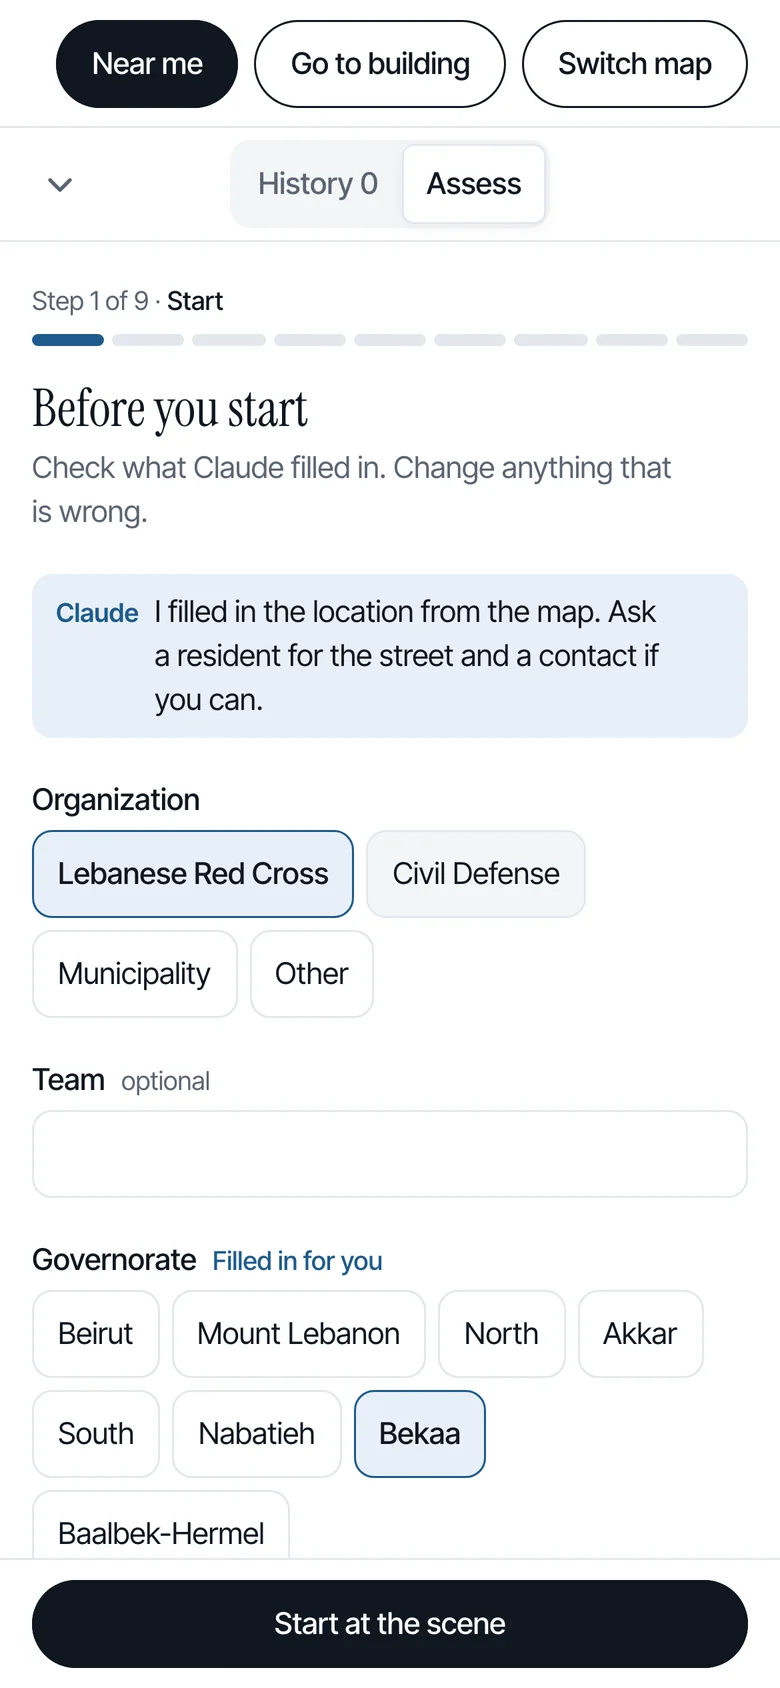
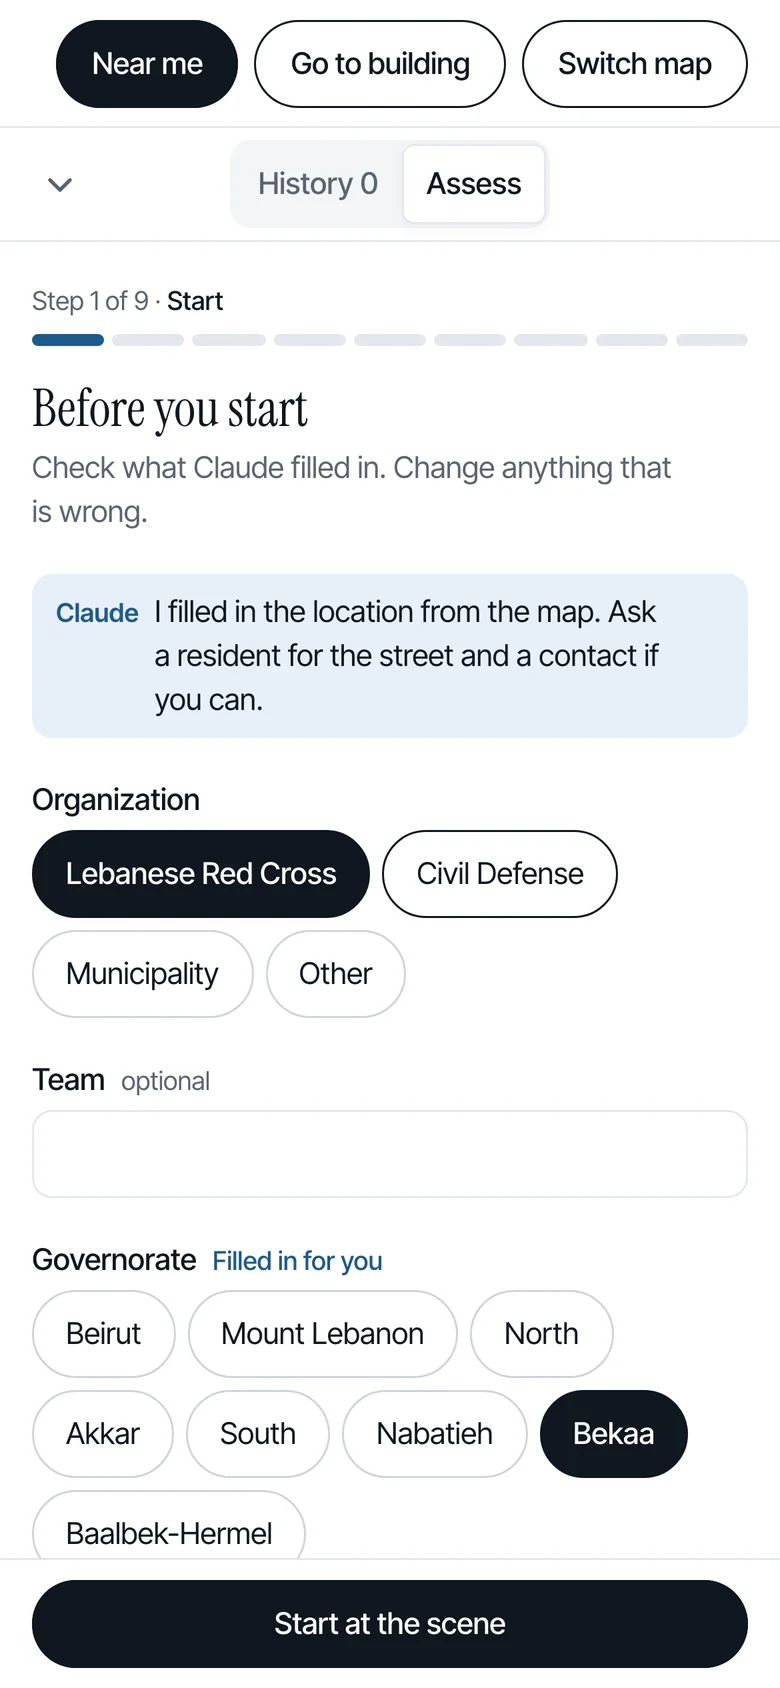
Pill choice tiles in the assessment and report forms; Zahle photo free to use

diff --git a/src/components/emt/assessment/AssessmentFlow.tsx b/src/components/emt/assessment/AssessmentFlow.tsx
@@ -244,8 +244,8 @@ function Choice<T extends string>({
           role={multi ? "checkbox" : "radio"}
           aria-checked={on(o)}
           onClick={() => onChange(o)}
-          className={`min-h-11 rounded-control border px-3 text-body transition-colors focus-visible:outline-2 focus-visible:outline-accent ${
-            on(o) ? "border-accent bg-accent-soft font-medium text-ink" : "border-line bg-surface text-ink hover:bg-surface-soft"
+          className={`min-h-11 rounded-full border px-4 text-body transition-colors focus-visible:outline-2 focus-visible:outline-accent ${
+            on(o) ? "border-ink bg-ink font-medium text-surface" : "border-line-strong bg-surface text-ink hover:border-ink"
           }`}
         >
           {labels?.[o] ?? o}
@@ -689,7 +689,7 @@ function Items({ items, draft, update }: { items: Item[]; draft: Draft; update: 
                             items: { ...d.items, [i.id]: { ...(d.items[i.id] ?? emptyAnswer()), rating: r, by: "emt" } },
                           }))
                         }
-                        className={`min-h-11 rounded-control border px-1 text-micro leading-tight font-medium text-ink transition-colors focus-visible:outline-2 focus-visible:outline-accent ${
+                        className={`min-h-11 rounded-full border px-1 text-micro leading-tight font-medium text-ink transition-colors focus-visible:outline-2 focus-visible:outline-accent ${
                           a.rating === r ? RATING_ON[r] : "border-line bg-surface hover:bg-surface-soft"
                         }`}
                       >

diff --git a/src/components/engineer/report/ReportForm.tsx b/src/components/engineer/report/ReportForm.tsx
@@ -721,8 +721,8 @@ function Segmented<T extends string>({
               aria-checked={selected}
               onClick={() => onChange(selected ? null : o.value)}
               className={[
-                "rounded-control border font-medium transition-colors focus-visible:outline-2 focus-visible:outline-offset-1 focus-visible:outline-accent",
-                compact ? "min-h-9 px-2.5 text-micro" : "min-h-11 px-3 text-body",
+                "rounded-full border font-medium transition-colors focus-visible:outline-2 focus-visible:outline-offset-1 focus-visible:outline-accent",
+                compact ? "min-h-9 px-3 text-micro" : "min-h-11 px-4 text-body",
                 selected ? "border-ink bg-ink text-surface" : "border-line bg-surface text-ink hover:border-line-strong",
               ].join(" ")}
             >
@@ -762,7 +762,7 @@ function Picks({
               aria-pressed={on}
               onClick={() => onChange(on ? value.filter((v) => v !== o) : [...value, o])}
               className={[
-                "inline-flex min-h-9 items-center gap-1.5 rounded-control border px-2.5 text-micro font-medium transition-colors",
+                "inline-flex min-h-9 items-center gap-1.5 rounded-full border px-3 text-micro font-medium transition-colors",
                 "focus-visible:outline-2 focus-visible:outline-offset-1 focus-visible:outline-accent",
                 on ? "border-accent bg-accent-soft text-ink" : "border-line bg-surface text-muted hover:text-ink",
               ].join(" ")}

diff --git a/docs/STATUS.md b/docs/STATUS.md
@@ -63,7 +63,7 @@ Last updated: 24 Nov 2026 (late night). Read this first, then `plan.md` (source 
     - Checked in the browser with Claude off: the ready-made searches, the ranked list, the map highlight, tap-to-fly, Near me (random-building path), the landing section, both top bars at 390px. The ranking was checked on 14 made-up buildings.
     - **With the key (24 Nov):** typed "Ask" questions work (Claude fills a simple flat form, `ClaudeFilterSchema`; the strict schema was too large for the API, so `fromClaude()` checks every value). Posting proposal returns a confidence. **Not tested yet:** photo reading with confidence, the sketch, the downgrade warning in a real assessment. Real GPS in Zahle not tested. Existing 2 assessments have no confidence (Claude was not used), so they rank first.
 0000. **Owner, 23 Nov (later), live 24 Nov (pushed and deployed, commit `c76c8f3`):** the product now uses the landing page's look (white, Inter Tight, Instrument Serif, pill buttons `.zr-btn` and chips `.zr-chip` in `globals.css`; `buttonProps()` in `src/components/ui/button-styles.ts`). Ask rows show Claude's next step from the stored debrief (`debriefLines`). Landing page: real screenshots `public/landing/ask.webp` and `near-me.webp` replace the triage placeholder; new "Near me" block in chapter 05; "Where it could be unfair" under the ranking. Key checked live in production (24 Nov): a typed Ask question returned `claudeStatus: ok`. Checked headless at 1440 and 390 px: no errors, no sideways scroll. Not checked: the report form, the full assessment flow and sign-in pages in the new look beyond the first screen; Safari.
-    - **Later the same night (committed, not deployed):** Near me now ranks by distance and danger (`nearMeScore` in `src/lib/priority.ts`). Every landing placeholder replaced: Tripoli photo `public/landing/tripoli.webp` (CC BY 3.0, credited), map screens `engineer-map.webp` and `assessment.webp`, Claude's real sketch (`scripts/landing-sketch.ts` → `src/lib/landing-sketch.json`; re-running it costs one Claude call). UNDP photo: the owner has UNDP Lebanon's permission for this free, non-profit site (24 Nov). Still open: the Zahle photo's source. The assessment's choice tiles still use the old square style.
+    - **Later the same night (committed, not deployed):** Near me now ranks by distance and danger (`nearMeScore` in `src/lib/priority.ts`). Every landing placeholder replaced: Tripoli photo `public/landing/tripoli.webp` (CC BY 3.0, credited), map screens `engineer-map.webp` and `assessment.webp`, Claude's real sketch (`scripts/landing-sketch.ts` → `src/lib/landing-sketch.json`; re-running it costs one Claude call). UNDP photo: the owner has UNDP Lebanon's permission for this free, non-profit site (24 Nov). Zahle photo: released free for all to use by Zahle (owner, 24 Nov). Photo rights settled. Choice tiles in the assessment and report forms are pills now.
 000. **Portfolio landing page (plan item 28): live 24 Nov (owner's go), with the photo-rights issue below still open.** Files: `src/components/landing/` (`Landing.tsx`, `motion.tsx`, `landing.css`), words in `src/lib/landing-content.ts`, author photo `public/landing/author.webp`. Checked headless at 1440 and 390 px: no errors, no sideways scroll. Not yet checked: Safari, a real phone, hover effects. Owner to approve the wording section by section.
     - **Owner, 23 Nov (later):** removed "How it's built", the Result section (numbers, Red Cross as owner) and the sources list; sources now open from the small numbered badges. Next.js dev badge hidden (`next.config.ts`). Owner's photos placed: Zahle from the hill (Task, `public/landing/zahle.webp`) and a damaged building (Claude sketch, `public/landing/damaged-building.webp`).
     - **Photo rights to settle before deploy:** the damaged-building photo is UNDP Lebanon's on Flickr (UNDP209), marked **All rights reserved**: ask UNDP Lebanon for permission or swap for a free-licence photo. The Zahle photo's source is unknown (627 × 650 px, looks like a social-media repost): find its author or replace it with a larger free one.
